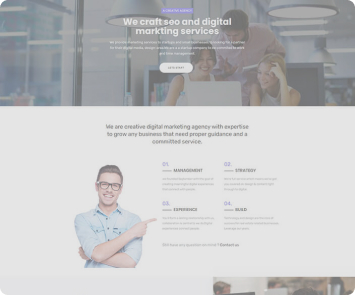
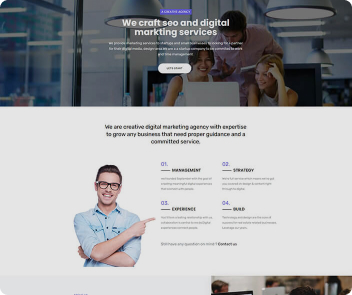
Add hovet to the img-portfolio

diff --git a/index.html b/index.html
@@ -109,7 +109,7 @@
               </div>
               <div class="work_skrol-img">
                 <div class="img-skrol-info">
-                    <img src="/img/Portfolio item.jpeg">
+                    <a href="#"><img src="/img/Portfolio item.jpeg" alt="portfolio"></a>
                     <h6>Agency Website.</h6>
                     <div class="button-img">
                         <a href="#" class="press">WordPress</a>
@@ -118,7 +118,7 @@
                 </div>
 
                 <div class="img-skrol-info">
-                    <img src="/img/Portfolio1.jpeg">
+                    <a href="#"><img src="/img/Portfolio item1.jpeg" alt="portfolio"></a>
                     <h6>Agency Website.</h6>
                     <div class="button-img">
                         <a href="#" class="press">WordPress</a>
@@ -127,7 +127,7 @@
                 </div>
 
                 <div class="img-skrol-info">
-                    <img src="/img/Portfolio2.jpeg">
+                    <a href="#"><img src="/img/Portfolio item2.jpeg" alt="portfolio"></a>
                     <h6>Agency Website.</h6>
                     <div class="button-img">
                         <a href="#" class="press">WordPress</a>
@@ -250,7 +250,8 @@
         <section class="education">
             <div class="container">
                 <div class="education-main">
-                    
+                    <div class="title_lable">LEARNING PATH</div>
+                    <div class="title">Education & Skills </div>
                 </div>
             </div>
         </section>

diff --git a/style.css b/style.css
@@ -313,6 +313,7 @@ max-height: 300px;
 background-color: #ffffff;
 padding: 53px 57px;
 border-radius: 5px;
+flex-shrink: 2;
 }
 
 .column-pretitle{
@@ -377,6 +378,7 @@ text-align: center;
     max-width: 360px;
     margin-top: 140px;
     align-items: center;
+    flex-shrink: 1;
 }
 .img-skrol-info h6{
   padding:15px;
@@ -398,11 +400,20 @@ PORTFOLIO8*/
   justify-content: space-between;
   align-items: center;
   flex-wrap: wrap;
+  max-width: 1150px;
 }
-.img-skrol-info{
+.work .img-skrol-info{
   border: 1px solid rgba(0, 0, 0, 0.176);
   border-radius: 10px;
   padding-bottom: 25px;
+  align-items: stretch;
+}
+.work .img-skrol-info a{
+  opacity: 0.5;
+  transition: all 3s ease 0;
+}
+.work .img-skrol-info a:hover{
+  opacity: 1;
 }
 
 /*EXPERIENCE*/
